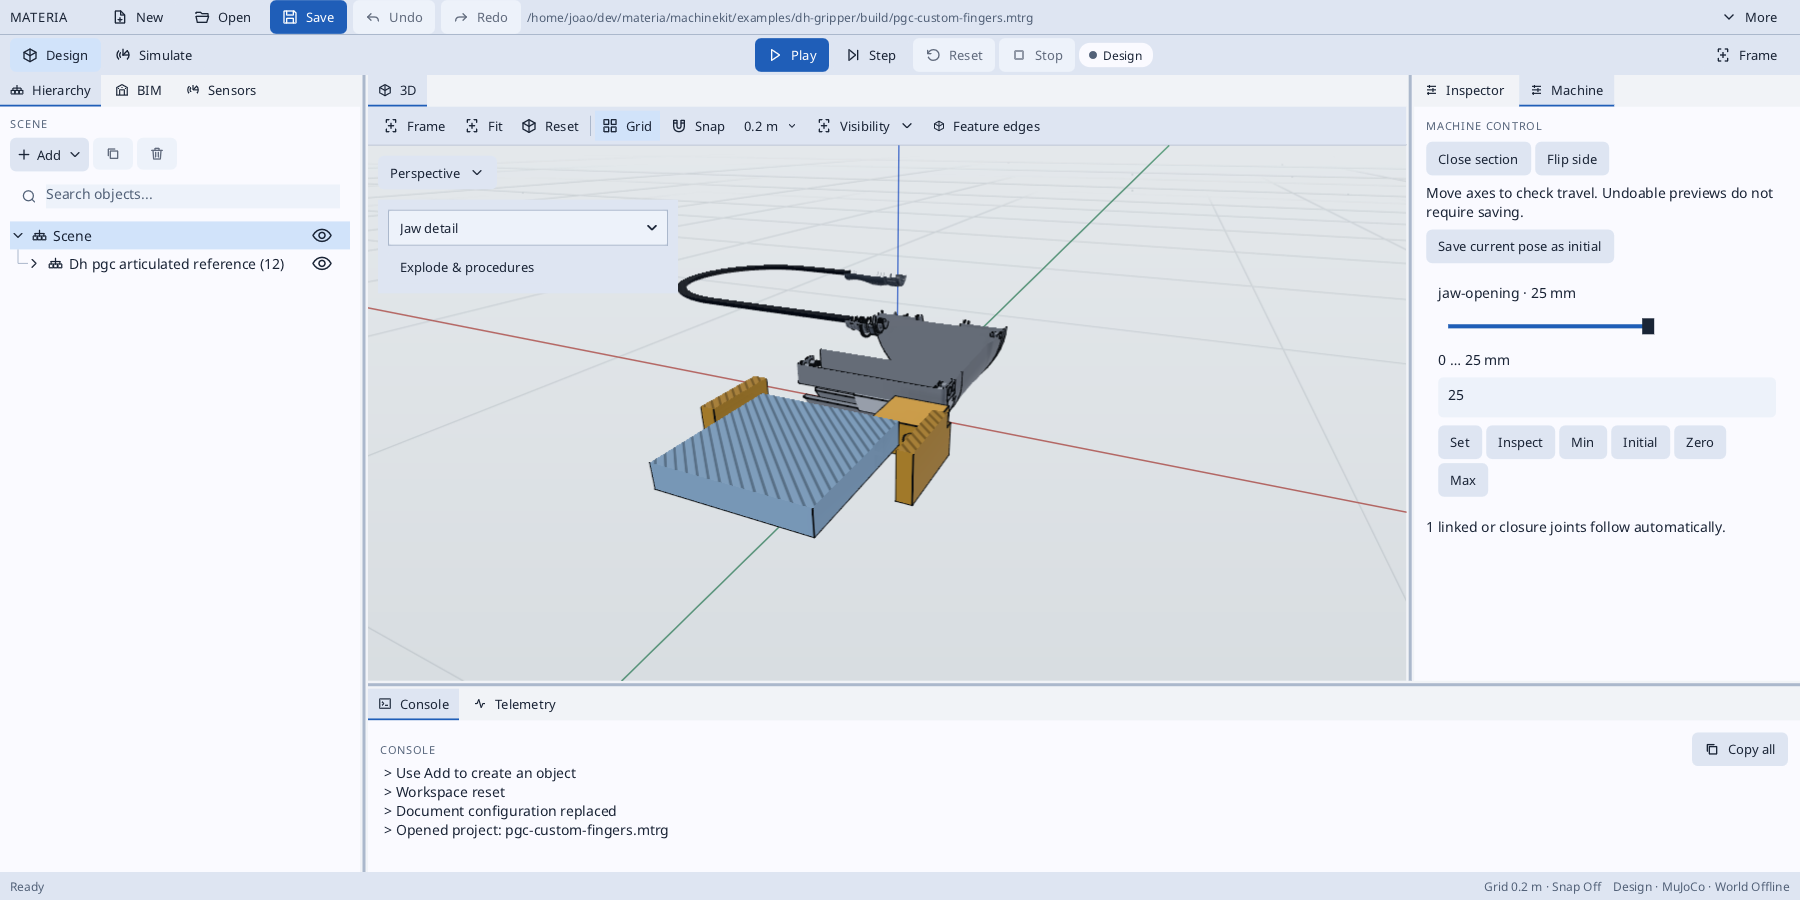
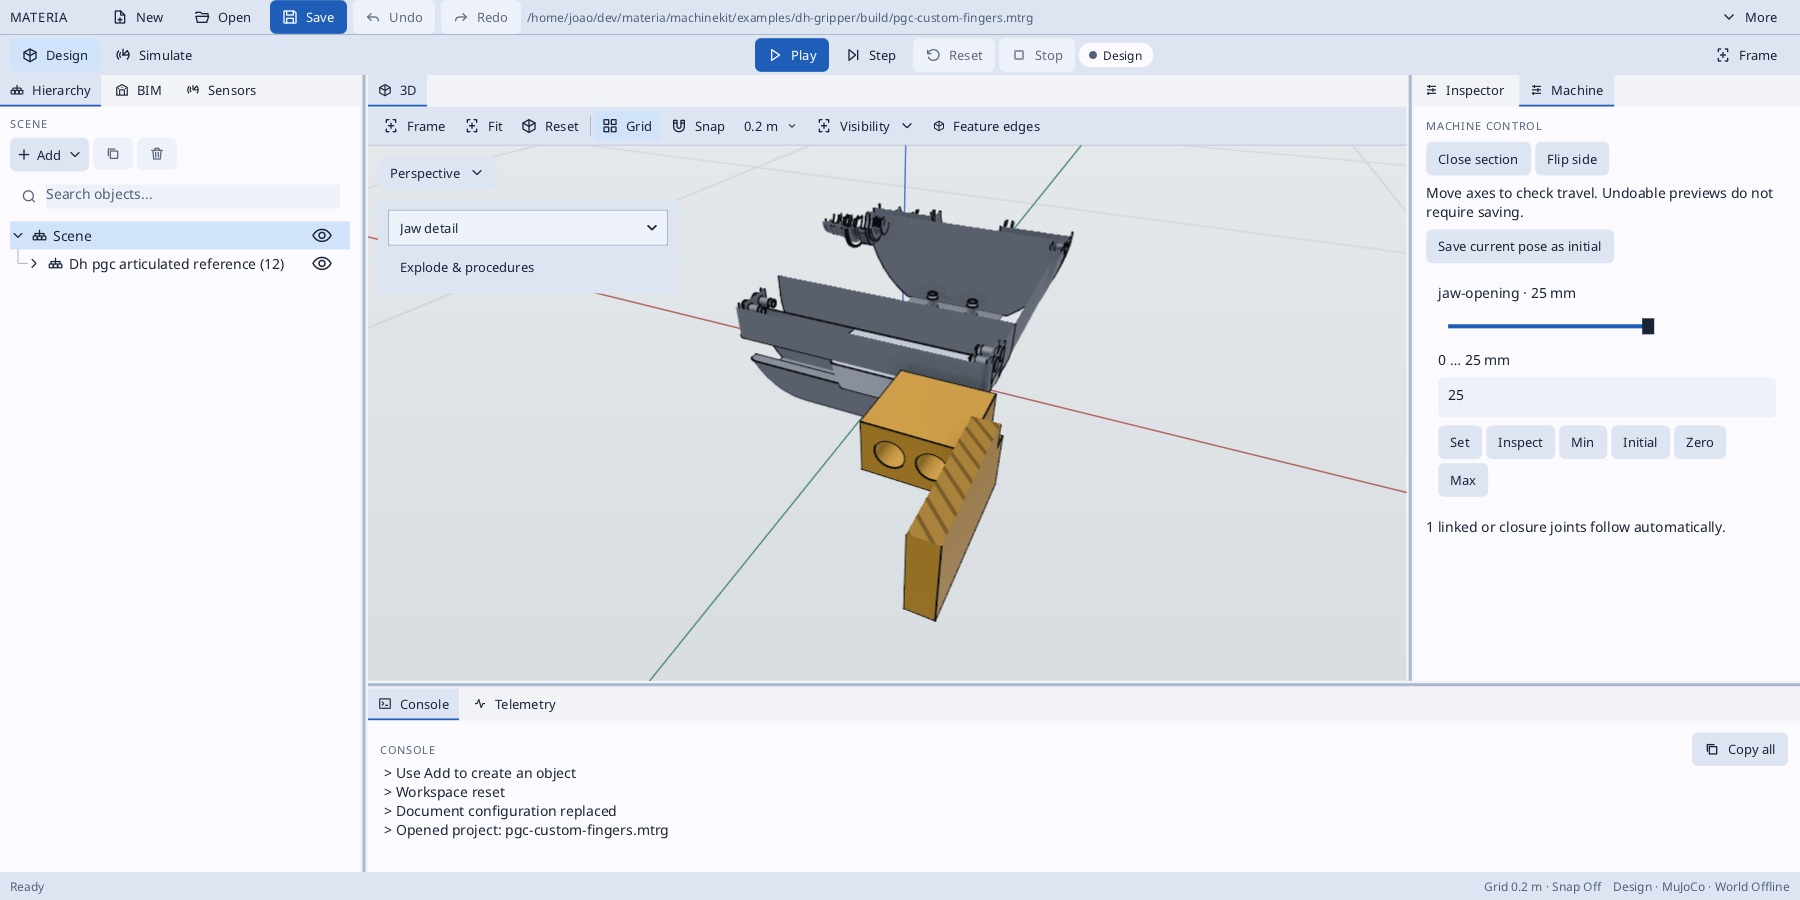
Clarify section inspection views and refresh AP8 captures

Changed region(s): [[0.3422, 0.2178, 0.6222, 0.6844], [0.7467, 0.5289, 0.7778, 0.56], [0.3733, 0.6533, 0.4044, 0.6844]]

diff --git a/machinekit/examples/flexspline-hobber/README.md b/machinekit/examples/flexspline-hobber/README.md
@@ -126,11 +126,14 @@ These views change display state without changing the fixture assembly.
 | --- | --- | --- |
 | ![Assembled socket fixture](images/socket-fixture-assembled.png) | ![Section through both sockets](images/socket-fixture-see-inside.png) | ![Socket mounting screw and washer from below](images/socket-fixture-socket-mounting.png) |
 
-The See inside capture was reviewed again for AP8's filled sections. The opaque
-socket cuts are filled and hatched at the section plane; their bores remain empty.
-The casting is transparent in this inspection view so its new cap cannot obscure
-the embedded sockets. Transparent parts receive no caps. This changes the view
-preset, without changing the casting or fixture geometry.
+The See inside capture looks down obliquely onto the section at **Y=170 mm**.
+The broad, unhatched orange face is the **uncut inner north wall at Y=290 mm**
+(the wall extends to Y=308 mm), behind the section. Its top edge and the retained
+side-wall lengths show that depth separation. The east and west wall ends cross
+the section and are hatched, as are the socket cuts; socket bores remain empty.
+There is no missing cap on the north wall: the plane never intersects it.
+The casting and fixture plates are transparent so they cannot obscure the sockets;
+transparent parts receive no caps. These are display changes only.
 
 The captures above use the generated `build/socket-fixture/socket-fixture-assembled.mtrg`.
 Reproduce a named view from the repository root with:
@@ -140,7 +143,7 @@ Reproduce a named view from the repository root with:
   --view=see-inside \
   --project="$PWD/machinekit/examples/flexspline-hobber/build/socket-fixture/socket-fixture-assembled.mtrg" \
   --capture-dir=/tmp/socket-fixture-see-inside --capture-seconds=2 \
-  --reset-workspace --perspective --width=1400 --height=900
+  --reset-workspace --perspective --width=1800 --height=900
 ```
 
 The Explode slider at 100% (captured through the editor):

diff --git a/machinekit/examples/dh-gripper/README.md b/machinekit/examples/dh-gripper/README.md
@@ -399,10 +399,11 @@ joint configurations are saved in the focused source report.
 
 ## Assembly views and finger service
 
-The custom-finger artifact opens assembled. Jaw detail sections the jaw guide;
-The Jaw detail capture was reviewed again for AP8: closed solid cuts are filled
-with material-coloured hatch at the plane, and guide/cavity openings stay empty.
-The supplier's open connector faces stay uncapped.
+The custom-finger artifact opens assembled. **Jaw detail** frames the left jaw,
+finger and its two mounting screws beside the sectioned housing guide. The blank,
+cable, cable-end connector and opposite jaw/finger are hidden in this view so they
+do not obscure the detail. Closed solid cuts are filled with material-coloured
+hatch at the plane; guide cavities and screw holes remain empty.
 Finger service gives an unobstructed close-up. The Explode slider removes screws
 in stage 1 and fingers in stage 2. Change left finger opens the jaws with
 `SetJoints`, then removes the two screws and finger, installs the replacement,
@@ -413,6 +414,16 @@ and reinstalls the screws. These service motions are Illustrative.
 | ![Assembled](images/presentation-assembled.png) | ![Jaw guide](images/presentation-jaw-detail.png) |
 | Explode at 100% | Finger-change procedure |
 | ![Explode](images/presentation-explode.png) | ![Finger change](images/presentation-finger-change.png) |
+
+Reproduce the Jaw detail capture through the editor (the preset supplies the framing):
+
+```sh
+./haxeon/scripts/haxeon run --project=app/tests/haxeon.presentation-capture.json -- \
+  --view=jaw-detail \
+  --project="$PWD/machinekit/examples/dh-gripper/build/pgc-custom-fingers.mtrg" \
+  --capture-dir=/tmp/gripper-jaw-detail --capture-seconds=2 \
+  --reset-workspace --perspective --width=1800 --height=900
+```
 
 Capture a procedure step through the editor:
 
